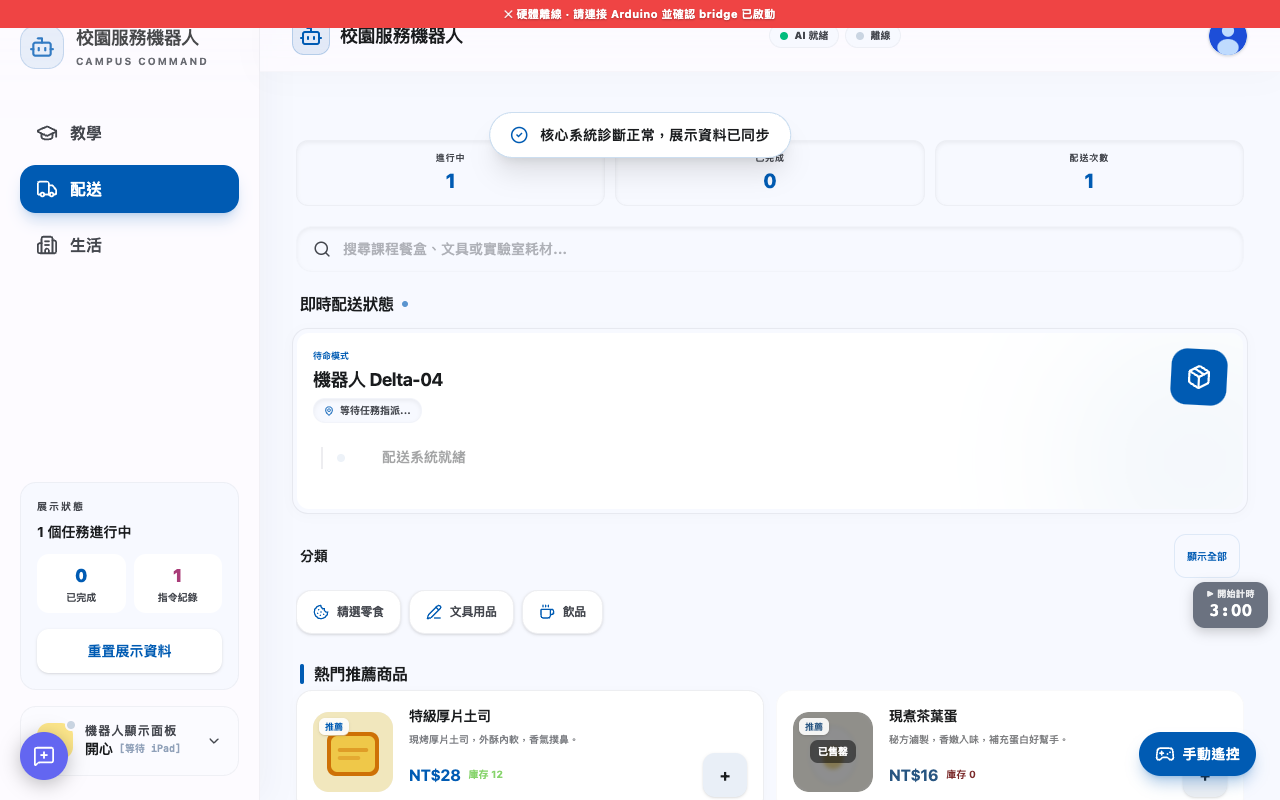
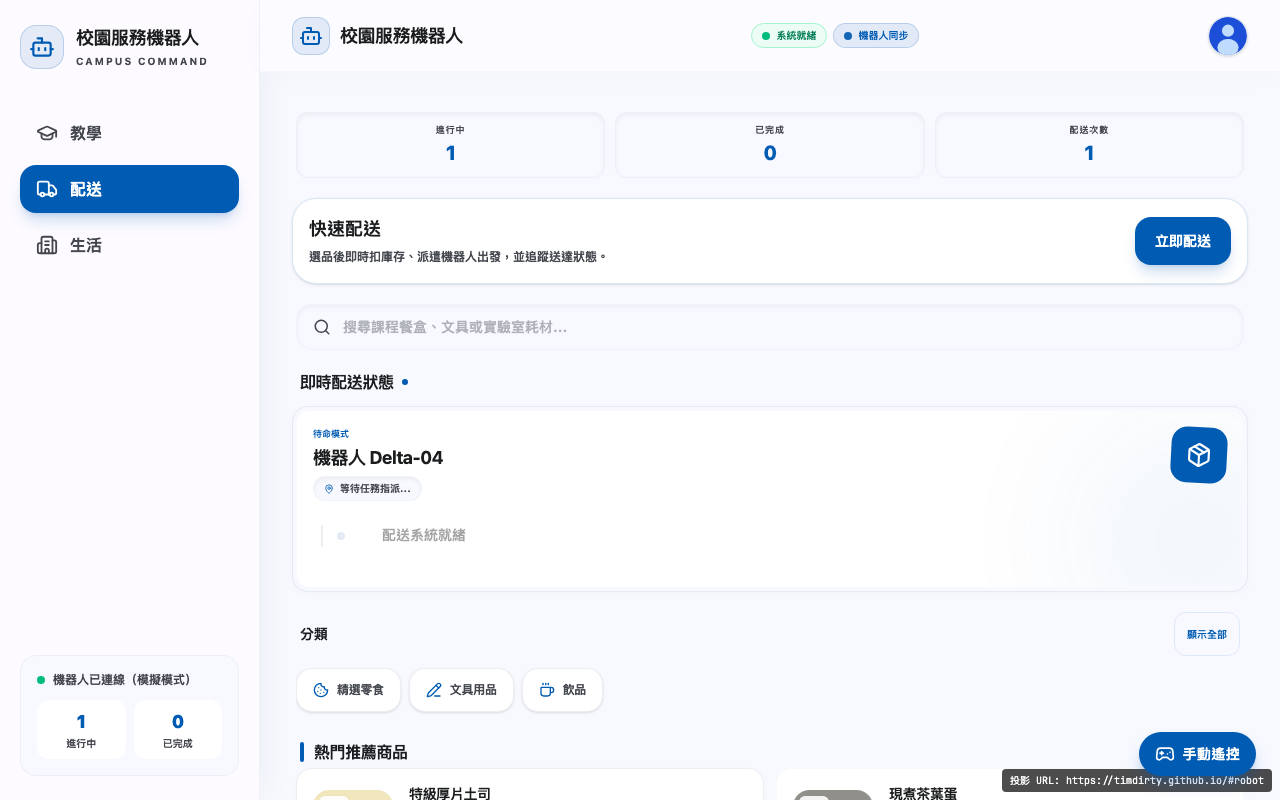
fix(app2): replace EV3 with UNO R4 + L293D throughout + retake screenshots
- ExternalRobotPanel: 移除 EV3/SPIKE 切換，改為 UNO R4 + L293D 指令
  (FORWARD/BACKWARD/LEFT/RIGHT/STOP/SWEEP_START/SWEEP_STOP/DELIVERY_START/DELIVERY_DONE)
  送指令走 /api/robot/command，狀態輪詢改走 /api/health
- DeliveryTrackingView: EV3_ARM_RETRACT → DELIVERY_DONE，步驟標題改「機器人待命回位」
- STUDENT_DEMO_GUIDE.md: 加入硬體規格（3D列印+UNO R4+L293D+TT馬達），更新講稿
- app-catalog.mjs: 移除 EV3 指令、更新 Q&A（EV3→UNO R4）、新增硬體 Q&A（L293D/TT馬達/3D列印）
- 截圖 1-4 重拍（無離線橫幅、顯示模擬模式）

diff --git a/apps/app2-campus-service/src/components/ExternalRobotPanel.tsx b/apps/app2-campus-service/src/components/ExternalRobotPanel.tsx
@@ -1,67 +1,39 @@
-// EV3 / SPIKE Prime 外部機器人控制面板 (App 2 — 配送機器人)
+// 校園掃地機器人輔助控制面板 (App 2 — UNO R4 + L293D + TT Motor)
 // 以折疊卡片形式嵌入 RemoteControlPanel BottomSheet。
-// 自動輪詢 /api/ev3/status 或 /api/spike/status 顯示連線狀態。
+// 送指令走主 bridge /api/robot/command，不走 EV3/SPIKE endpoint。
 
 import {memo, useEffect, useState} from 'react';
-import {Bot, ChevronDown, ChevronUp, Cpu, Navigation2, PackageCheck, TriangleAlert, Volume2} from 'lucide-react';
+import {Bot, ChevronDown, ChevronUp, Navigation2, PackageCheck, TriangleAlert, Waves} from 'lucide-react';
 import {BRIDGE_URL} from '../services/hardwareBridge';
 
-type RobotHW = 'ev3' | 'spike';
-
-interface HWStatus {
-  connected: boolean;
-  simulated: boolean;
-  activePath: string;
+interface BridgeHealth {
+  ok: boolean;
+  arduinoConnected: boolean;
+  simulated?: boolean;
+  activePath?: string | null;
 }
 
-const EV3_COMMANDS = [
-  {label: '前進', cmd: 'EV3_FORWARD', icon: '↑'},
-  {label: '後退', cmd: 'EV3_BACKWARD', icon: '↓'},
-  {label: '左轉', cmd: 'EV3_LEFT', icon: '←'},
-  {label: '右轉', cmd: 'EV3_RIGHT', icon: '→'},
-  {label: '停止', cmd: 'EV3_STOP', icon: '■', accent: true},
-  {label: '送達 A', cmd: 'EV3_DELIVER_A', icon: '📦'},
-  {label: '送達 B', cmd: 'EV3_DELIVER_B', icon: '📦'},
-  {label: '送達 C', cmd: 'EV3_DELIVER_C', icon: '📦'},
-  {label: '喇叭', cmd: 'EV3_HORN', icon: '📣'},
-  {label: '返回', cmd: 'EV3_RETURN', icon: '⏎'},
+const ROBOT_COMMANDS = [
+  {label: '前進', cmd: 'FORWARD',        icon: '↑', group: 'drive'},
+  {label: '後退', cmd: 'BACKWARD',       icon: '↓', group: 'drive'},
+  {label: '左轉', cmd: 'LEFT',           icon: '←', group: 'drive'},
+  {label: '右轉', cmd: 'RIGHT',          icon: '→', group: 'drive'},
+  {label: '停止', cmd: 'STOP',           icon: '■', group: 'stop'},
+  {label: '滾筒開', cmd: 'SWEEP_START',  icon: '🌀', group: 'sweep'},
+  {label: '滾筒停', cmd: 'SWEEP_STOP',   icon: '⏹', group: 'sweep'},
+  {label: '配送開始', cmd: 'DELIVERY_START', icon: '📦', group: 'task'},
+  {label: '配送完成', cmd: 'DELIVERY_DONE',  icon: '✅', group: 'task'},
+  {label: '巡邏', cmd: 'PATROL_START',   icon: '👁', group: 'task'},
 ] as const;
 
-const SPIKE_COMMANDS = [
-  {label: '前進', cmd: 'FORWARD', icon: '↑'},
-  {label: '後退', cmd: 'BACKWARD', icon: '↓'},
-  {label: '左轉', cmd: 'LEFT', icon: '←'},
-  {label: '右轉', cmd: 'RIGHT', icon: '→'},
-  {label: '停止', cmd: 'STOP', icon: '■', accent: true},
-  {label: '送達 A', cmd: 'DELIVER_A', icon: '📦'},
-  {label: '送達 B', cmd: 'DELIVER_B', icon: '📦'},
-  {label: '送達 C', cmd: 'DELIVER_C', icon: '📦'},
-  {label: '喇叭', cmd: 'HORN', icon: '📣'},
-  {label: '返回', cmd: 'RETURN', icon: '⏎'},
-] as const;
-
-async function fetchStatus(hw: RobotHW): Promise<HWStatus | null> {
-  const ctrl = new AbortController();
-  const t = setTimeout(() => ctrl.abort(), 2000);
-  try {
-    const res = await fetch(`${BRIDGE_URL}/api/${hw}/status`, {signal: ctrl.signal});
-    if (!res.ok) return null;
-    return res.json() as Promise<HWStatus>;
-  } catch {
-    return null;
-  } finally {
-    clearTimeout(t);
-  }
-}
-
-async function sendCmd(hw: RobotHW, command: string): Promise<boolean> {
+async function sendCmd(command: string): Promise<boolean> {
   const ctrl = new AbortController();
   const t = setTimeout(() => ctrl.abort(), 3000);
   try {
-    const res = await fetch(`${BRIDGE_URL}/api/${hw}/command`, {
+    const res = await fetch(`${BRIDGE_URL}/api/robot/command`, {
       method: 'POST',
       headers: {'Content-Type': 'application/json'},
-      body: JSON.stringify({command}),
+      body: JSON.stringify({command, source: 'ExternalRobotPanel'}),
       signal: ctrl.signal,
     });
     const data = await res.json() as {ok: boolean};
@@ -73,10 +45,23 @@ async function sendCmd(hw: RobotHW, command: string): Promise<boolean> {
   }
 }
 
+async function fetchHealth(): Promise<BridgeHealth | null> {
+  const ctrl = new AbortController();
+  const t = setTimeout(() => ctrl.abort(), 2000);
+  try {
+    const res = await fetch(`${BRIDGE_URL}/api/health`, {signal: ctrl.signal});
+    if (!res.ok) return null;
+    return res.json() as Promise<BridgeHealth>;
+  } catch {
+    return null;
+  } finally {
+    clearTimeout(t);
+  }
+}
+
 export const ExternalRobotPanel = memo(function ExternalRobotPanel() {
   const [expanded, setExpanded] = useState(false);
-  const [hw, setHw] = useState<RobotHW>('ev3');
-  const [status, setStatus] = useState<HWStatus | null>(null);
+  const [health, setHealth] = useState<BridgeHealth | null>(null);
   const [lastResult, setLastResult] = useState<string>('待機中');
   const [busy, setBusy] = useState<string | null>(null);
 
@@ -84,33 +69,24 @@ export const ExternalRobotPanel = memo(function ExternalRobotPanel() {
     if (!expanded) return;
     let cancelled = false;
     const poll = async () => {
-      const s = await fetchStatus(hw);
-      if (!cancelled) setStatus(s);
+      const h = await fetchHealth();
+      if (!cancelled) setHealth(h);
     };
     void poll();
-    const pollId = setInterval(poll, 3000);
-    // Send HEARTBEAT every 20s to keep EV3/SPIKE connection warm
-    const hbId = setInterval(() => {
-      void sendCmd(hw, hw === 'ev3' ? 'HEARTBEAT' : 'HEARTBEAT');
-    }, 20000);
-    return () => {
-      cancelled = true;
-      clearInterval(pollId);
-      clearInterval(hbId);
-    };
-  }, [expanded, hw]);
+    const id = setInterval(poll, 4000);
+    return () => { cancelled = true; clearInterval(id); };
+  }, [expanded]);
 
   const handleCmd = async (cmd: string) => {
     if (busy) return;
     setBusy(cmd);
-    const ok = await sendCmd(hw, cmd);
+    const ok = await sendCmd(cmd);
     setLastResult(ok ? `✓ ${cmd}` : `✗ ${cmd} 失敗`);
     setBusy(null);
   };
 
-  const commands = hw === 'ev3' ? EV3_COMMANDS : SPIKE_COMMANDS;
-  const isConnected = status?.connected ?? false;
-  const isSimulated = status?.simulated ?? false;
+  const isConnected = health?.arduinoConnected ?? false;
+  const isSimulated = health?.simulated ?? false;
 
   return (
     <div className="rounded-2xl border border-outline-variant/20 bg-surface-container-low/40 overflow-hidden">
@@ -124,10 +100,10 @@ export const ExternalRobotPanel = memo(function ExternalRobotPanel() {
           <Bot className="h-5 w-5" />
         </div>
         <div className="flex-1 min-w-0">
-          <p className="text-xs font-black tracking-widest text-on-surface-variant uppercase">外部機器人</p>
+          <p className="text-xs font-black tracking-widest text-on-surface-variant uppercase">底盤直送指令</p>
           <p className="text-sm font-bold text-on-surface truncate">
-            {hw === 'ev3' ? 'LEGO EV3' : 'LEGO SPIKE Prime'}
-            {isSimulated && <span className="ml-1.5 text-[10px] text-amber-600 font-mono">[SIM]</span>}
+            UNO R4 + L293D
+            {isSimulated && <span className="ml-1.5 text-[10px] text-amber-600 font-mono">[模擬]</span>}
             {isConnected && !isSimulated && <span className="ml-1.5 text-[10px] text-emerald-600 font-mono">[連線中]</span>}
           </p>
         </div>
@@ -136,31 +112,12 @@ export const ExternalRobotPanel = memo(function ExternalRobotPanel() {
 
       {expanded && (
         <div className="flex flex-col gap-4 px-4 pb-4">
-          {/* HW toggle */}
-          <div className="flex gap-2">
-            {(['ev3', 'spike'] as const).map((t) => (
-              <button
-                key={t}
-                type="button"
-                onClick={() => { setHw(t); setStatus(null); }}
-                className={`flex-1 flex items-center justify-center gap-1.5 rounded-xl py-2 text-xs font-black transition ${
-                  hw === t
-                    ? 'bg-indigo-600 text-white shadow'
-                    : 'bg-surface-container-lowest text-on-surface-variant ring-1 ring-outline-variant/30'
-                }`}
-              >
-                <Cpu className="h-3.5 w-3.5" />
-                {t === 'ev3' ? 'EV3' : 'SPIKE'}
-              </button>
-            ))}
-          </div>
-
           {/* Status bar */}
           <div className="flex items-center gap-2 rounded-xl bg-surface-container-lowest p-2.5 ring-1 ring-outline-variant/20">
             <div className={`h-2 w-2 rounded-full ${isConnected ? 'bg-emerald-500' : 'bg-slate-300'}`} />
             <span className="text-xs font-bold text-on-surface-variant flex-1">
               {isConnected
-                ? isSimulated ? '模擬模式（可送指令）' : `已連線 ${status?.activePath ?? ''}`
+                ? isSimulated ? '模擬模式（可送指令）' : `已連線 ${health?.activePath ?? ''}`
                 : '未偵測到硬體'}
             </span>
             <span className="text-[10px] font-mono text-on-surface-variant">{lastResult}</span>
@@ -168,9 +125,9 @@ export const ExternalRobotPanel = memo(function ExternalRobotPanel() {
 
           {/* Command grid */}
           <div className="grid grid-cols-5 gap-1.5">
-            {commands.map(({label, cmd, icon, ...rest}) => {
-              const isAccent = 'accent' in rest && rest.accent;
-              const isNav = ['↑','↓','←','→'].includes(icon);
+            {ROBOT_COMMANDS.map(({label, cmd, icon, group}) => {
+              const isStop  = group === 'stop';
+              const isDrive = group === 'drive';
               return (
                 <button
                   key={cmd}
@@ -178,9 +135,9 @@ export const ExternalRobotPanel = memo(function ExternalRobotPanel() {
                   disabled={!isConnected || !!busy}
                   onClick={() => handleCmd(cmd)}
                   className={`flex flex-col items-center gap-0.5 rounded-xl py-2.5 text-center transition active:scale-95 disabled:opacity-40 ${
-                    isAccent
-                      ? 'bg-rose-500 text-white col-span-1 shadow-sm'
-                      : isNav
+                    isStop
+                      ? 'bg-rose-500 text-white shadow-sm'
+                      : isDrive
                       ? 'bg-indigo-100 text-indigo-800 ring-1 ring-indigo-200'
                       : 'bg-surface-container-lowest text-on-surface ring-1 ring-outline-variant/30'
                   }`}
@@ -195,8 +152,8 @@ export const ExternalRobotPanel = memo(function ExternalRobotPanel() {
           {/* Legend */}
           <div className="flex flex-wrap gap-3 text-[10px] text-on-surface-variant">
             <span className="flex items-center gap-1"><Navigation2 className="h-3 w-3" />方向控制</span>
+            <span className="flex items-center gap-1"><Waves className="h-3 w-3" />清掃滾筒</span>
             <span className="flex items-center gap-1"><PackageCheck className="h-3 w-3" />配送任務</span>
-            <span className="flex items-center gap-1"><Volume2 className="h-3 w-3" />喇叭</span>
             <span className="flex items-center gap-1"><TriangleAlert className="h-3 w-3 text-amber-500" />硬體未接時不可用</span>
           </div>
         </div>

diff --git a/apps/app2-campus-service/src/views/DeliveryTrackingView.tsx b/apps/app2-campus-service/src/views/DeliveryTrackingView.tsx
@@ -19,7 +19,7 @@ export function DeliveryTrackingView({ goBack, showToast, orderStatus }: {goBack
   );
   const [eta, setEta] = useState(3);
   const [phase, setPhase] = useState<'departed' | 'arriving' | 'delivered'>('departed');
-  const [ev3RetractStatus, setEv3RetractStatus] = useState<'idle' | 'retracting' | 'done' | 'failed'>('idle');
+  const [deliveryDoneStatus, setDeliveryDoneStatus] = useState<'idle' | 'sending' | 'done' | 'failed'>('idle');
   const [deliveredAt, setDeliveredAt] = useState('');
   const [queuedItems, setQueuedItems] = useState<string[]>(['保健室藥品', '101教室文具', '圖書館書籍']);
 
@@ -48,11 +48,11 @@ export function DeliveryTrackingView({ goBack, showToast, orderStatus }: {goBack
       }
       setDeliveredAt(new Intl.DateTimeFormat('zh-TW', {hour: '2-digit', minute: '2-digit', second: '2-digit', hour12: false}).format(new Date()));
       showToast('機器人已抵達，請取件！');
-      // Send EV3 arm retract
-      setEv3RetractStatus('retracting');
-      sendHardwareCommand('EV3_ARM_RETRACT', 'app2:delivery-confirm').then((result) => {
-        setEv3RetractStatus(result.ok ? 'done' : 'failed');
-      }).catch(() => setEv3RetractStatus('failed'));
+      // 送出配送完成指令，讓底盤回到待命
+      setDeliveryDoneStatus('sending');
+      sendHardwareCommand('DELIVERY_DONE', 'app2:delivery-confirm').then((result) => {
+        setDeliveryDoneStatus(result.ok ? 'done' : 'failed');
+      }).catch(() => setDeliveryDoneStatus('failed'));
     }
   }, [phase, activeOrder, actions, showToast]);
 
@@ -181,13 +181,13 @@ export function DeliveryTrackingView({ goBack, showToast, orderStatus }: {goBack
 
                 {phase === 'delivered' && (
                   <div className="relative pl-9 mt-8">
-                    <div className={`absolute -left-3.5 top-1 w-6 h-6 rounded-full flex items-center justify-center shadow-[0_0_0_8px_var(--color-surface-container-lowest)] ${ev3RetractStatus === 'done' ? 'bg-[#87d46c]' : ev3RetractStatus === 'failed' ? 'bg-amber-400' : 'bg-surface-container-highest'}`}>
-                      {ev3RetractStatus === 'done' && <CheckCircle2 size={14} className="text-white" strokeWidth={4} />}
+                    <div className={`absolute -left-3.5 top-1 w-6 h-6 rounded-full flex items-center justify-center shadow-[0_0_0_8px_var(--color-surface-container-lowest)] ${deliveryDoneStatus === 'done' ? 'bg-[#87d46c]' : deliveryDoneStatus === 'failed' ? 'bg-amber-400' : 'bg-surface-container-highest'}`}>
+                      {deliveryDoneStatus === 'done' && <CheckCircle2 size={14} className="text-white" strokeWidth={4} />}
                     </div>
                     <div>
-                      <h5 className="font-bold text-xl leading-none text-on-surface mb-2">取物手臂收回</h5>
+                      <h5 className="font-bold text-xl leading-none text-on-surface mb-2">機器人待命回位</h5>
                       <p className="text-xs font-bold text-on-surface-variant">
-                        {ev3RetractStatus === 'retracting' ? '收回中…' : ev3RetractStatus === 'done' ? '已到位' : ev3RetractStatus === 'failed' ? '已記錄' : ''}
+                        {deliveryDoneStatus === 'sending' ? '指令送出中…' : deliveryDoneStatus === 'done' ? '已就位' : deliveryDoneStatus === 'failed' ? '已記錄' : ''}
                       </p>
                     </div>
                   </div>

diff --git a/apps/app2-campus-service/STUDENT_DEMO_GUIDE.md b/apps/app2-campus-service/STUDENT_DEMO_GUIDE.md
@@ -4,6 +4,15 @@
 
 我們這組做的是「校園服務機器人中控台」。它可以把福利社配送、教學協助、清潔廣播、校園巡邏和安全任務整合在同一個 App 裡，讓機器人不只是單一功能，而是校園裡的任務助手。
 
+## 機器人硬體
+
+- **底盤**：自行 3D 列印車架
+- **控制板**：Arduino UNO R4 WiFi
+- **馬達驅動**：L293D 模組
+- **驅動輪**：TT 馬達 × 2（M1 + M2）
+- **清掃滾筒**：TT 馬達 × 2（M3 + M4）
+- **通訊方式**：App → bridge 伺服器 → USB Serial → Arduino → L293D → TT 馬達
+
 ## 學生操作入口
 
 學生只要記住一句話：
@@ -58,11 +67,13 @@
 
 大家好，我們是校園服務機器人小組。我們觀察到學校裡有很多重複性工作，例如福利社配送、清潔提醒、廣播、巡邏、上課點名和安全通報。如果每一件事都分開做，老師和行政人員會很忙，所以我們設計一個校園機器人中控台。
 
+我們的機器人底盤是自己用 3D 列印做的，用 Arduino UNO R4 WiFi 當大腦，透過 L293D 馬達驅動 IC 控制四顆 TT 馬達，兩顆帶動輪子、兩顆帶動清掃滾筒。App 下達指令後，指令從 bridge 伺服器透過 USB Serial 傳到 Arduino，Arduino 再控制馬達動作。
+
 首先在學生展示模式可以看到四個大按鈕。每個按鈕都代表一段校園服務，不只是切換畫面，而是會留下任務紀錄。
 
 接著我們進入配送頁，下訂一筆福利社商品。送出後，系統會扣庫存、建立訂單、指派機器人。如果庫存不足，系統只會記錄提醒，不會誤派機器人。
 
-再到追蹤頁，我們可以把配送任務標記為送達，機器人會回到待命。接著可以展示教學頁，例如點名、學生提問回覆或分心提醒，代表機器人也可以協助課堂。
+再到追蹤頁，我們可以把配送任務標記為送達，機器人收到 DELIVERY_DONE 指令後待命回位。接著可以展示教學頁，例如點名、學生提問回覆或分心提醒，代表機器人也可以協助課堂。
 
 最後我們到生活服務。它可以把校園事件變成廣播、巡邏或清掃任務，讓評審看到機器人真的有接到任務。
 
@@ -122,9 +133,9 @@
 - 教學點名、提問回覆、提醒處理：已完成。
 - 清潔、廣播、鐘聲、安全封鎖、派遣：已完成。
 - 報表、重置、匯出、匯入、壞資料恢復：已完成。
-- 機器人派遣紀錄：已完成到 App 任務與服務紀錄；實體動作下一階段校準。
-- 送達確認完整流程：到達後任務日誌新增第四步「手臂收回」並即時顯示收回中 → 已到位；完成時間戳顯示於第三步。
-- 手動遙控中心：右下角 FAB 按鈕召喚虛擬搖桿面板，可控制底盤方向（前後左右）與滾筒啟停、正反向、速度；放開搖桿自動停車，另有緊急停止按鈕。
+- 機器人派遣紀錄：已完成到 App 任務與服務紀錄；DELIVERY_START / DELIVERY_DONE 指令透過 bridge → UNO R4 → L293D 控制底盤。
+- 送達確認完整流程：到達後任務日誌新增第四步「機器人待命回位」並即時顯示指令送出中 → 已就位；完成時間戳顯示於第三步。
+- 手動遙控中心：右下角 FAB 按鈕召喚虛擬搖桿面板，可控制底盤方向（前後左右）與清掃滾筒啟停、正反向、速度；放開搖桿自動停車，另有緊急停止按鈕。
 
 ## 評審可能會問
 
@@ -144,8 +155,16 @@
 
 不是。展示流程會先看目前校園畫面；如果現場網路不穩，也會用安全展示流程接住，讓同學能穩定完成辨識、派遣和紀錄。
 
+### 機器人用什麼硬體？
+
+3D 列印底盤 + Arduino UNO R4 WiFi + L293D 馬達驅動模組 + TT 馬達 × 4。App 送指令 → bridge → USB Serial → Arduino → L293D → 馬達轉動。
+
+### 搖桿可以控制真實機器人嗎？
+
+可以。右下角 FAB 搖桿送出 FORWARD／BACKWARD／LEFT／RIGHT／STOP 指令，bridge 轉給 Arduino，韌體有 3 秒看門狗保護，放開搖桿自動停車。
+
 ## 後續機器人連動計畫
 
-1. `DELIVERY_START`、`DELIVERY_DONE`、`BROADCAST_START`、`PATROL_START`、`SAFETY_LOCKDOWN` 已會進入 App 任務紀錄，也會推送到機器人顯示端。
-2. 下一階段可以把同一批指令接到實體底盤、LED Matrix、蜂鳴器或抵達提示。
+1. `DELIVERY_START`、`DELIVERY_DONE`、`BROADCAST_START`、`PATROL_START`、`SWEEP_START`、`SWEEP_STOP` 已會進入 App 任務紀錄，也會推送到機器人顯示端。
+2. 指令透過 bridge → USB Serial 送到 UNO R4，UNO R4 控制 L293D 驅動 TT 馬達執行動作。
 3. 保留 App 的展示流程，讓比賽現場即使設備臨時不穩，也能完成學生操作與任務說明。
